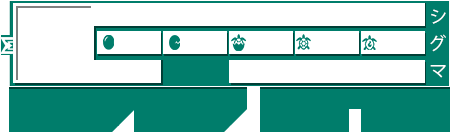
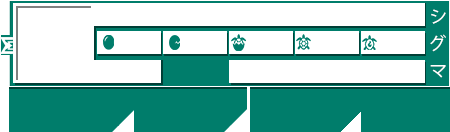
Fix and Layout Edit

Changed region(s): [[0.5289, 0.6364, 0.5911, 1.0], [0.7778, 0.8182, 0.8089, 0.9091], [0.7467, 0.9394, 0.7778, 1.0]]

diff --git a/plugins/nihongo.py b/plugins/nihongo.py
@@ -199,11 +199,11 @@ class WK(Plugin):
                 imgdraw.text((kanji_loc, 61), rank_category, (255, 255, 255), font=font3)
                 if img_type == 'Big':
                     imgdraw.text((11, 88), 'Next Review: ' + str(next_review_date), (255, 255, 255), font=font2)
-                    imgdraw.text((11, 110), 'Next Hour: ' + str(review_nd), (255, 255, 255), font=font4)
-                    imgdraw.text((136, 110), 'Next Day: ' + str(review_nh), (255, 255, 255), font=font4)
-                    imgdraw.text((262, 88), 'Radic: ' + str(rad_curr) + '/' + str(rad_total), (255, 255, 255), font=font2)
+                    imgdraw.text((11, 110), 'Next Hour: ' + str(review_nh), (255, 255, 255), font=font4)
+                    imgdraw.text((136, 110), 'Next Day: ' + str(review_nd), (255, 255, 255), font=font4)
+                    imgdraw.text((252, 88), 'Radical: ' + str(rad_curr) + '/' + str(rad_total), (255, 255, 255), font=font2)
                     imgdraw.text((363, 88), 'Kanji: ' + str(kanji_curr) + '/' + str(kanji_total), (255, 255, 255), font=font2)
-                    imgdraw.text((262, 110), 'Lessons: ' + str(lesson_queue), (255, 255, 255), font=font2)
+                    imgdraw.text((252, 110), 'Lessons: ' + str(lesson_queue), (255, 255, 255), font=font2)
                     imgdraw.text((363, 110), 'Reviews: ' + str(review_queue), (255, 255, 255), font=font2)
 
                 base.save('cache\\ani\\wk_' + message.author.id + '.png')
